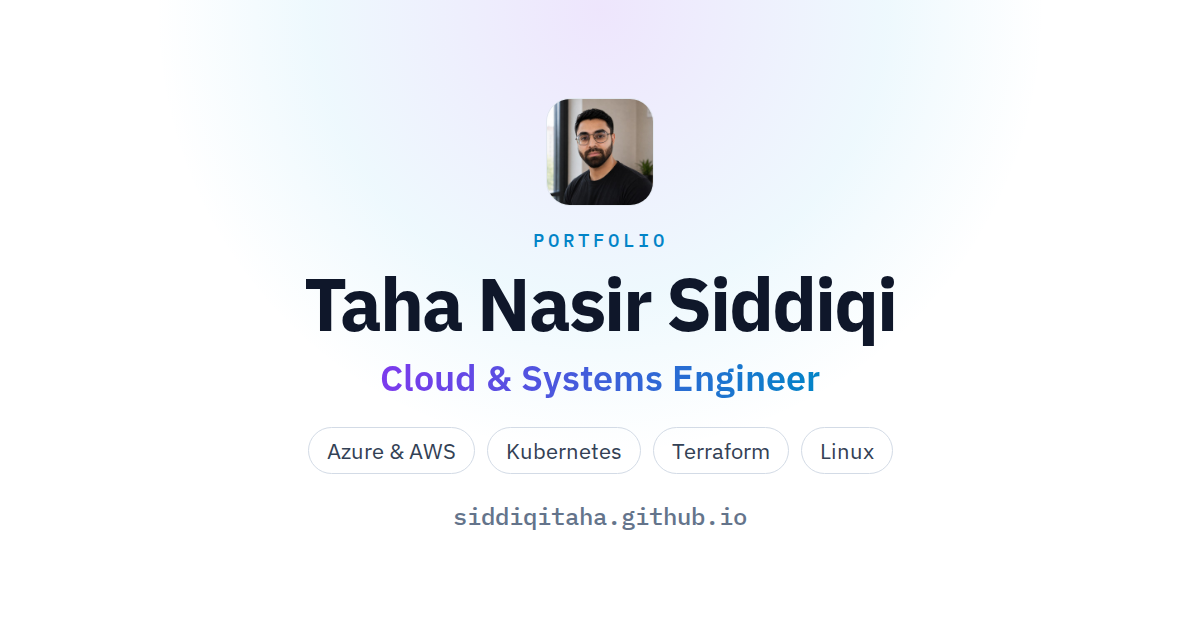
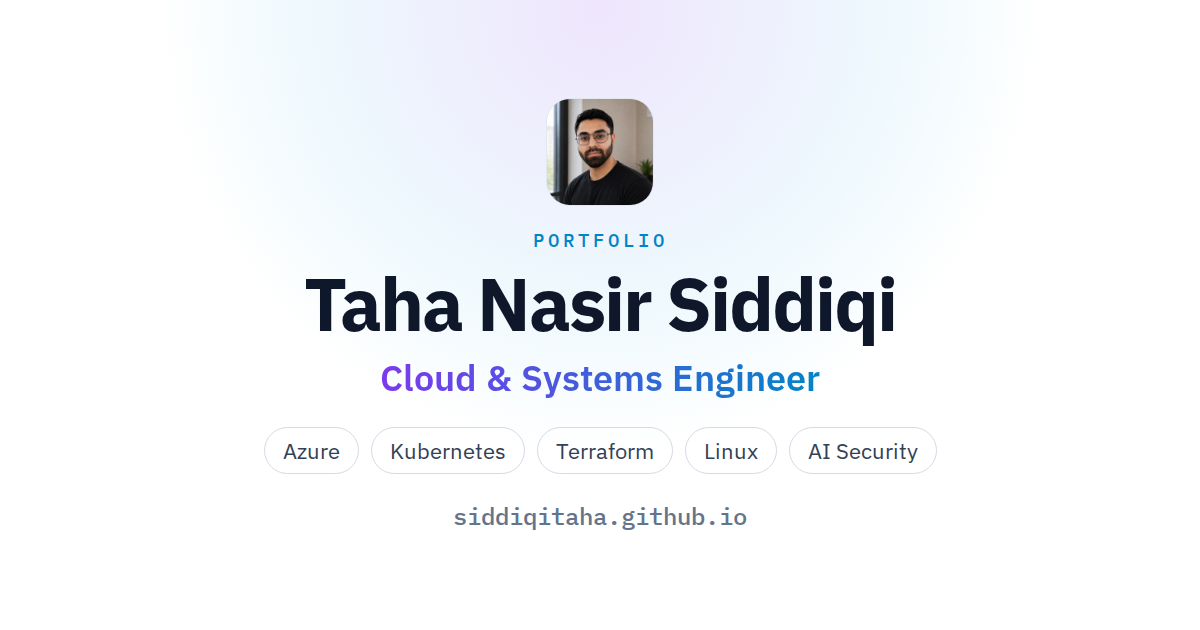
Add AI Security to share preview tags

Changed region(s): [[0.2158, 0.6937, 0.7708, 0.754]]

diff --git a/scripts/og-portfolio.html b/scripts/og-portfolio.html
@@ -19,7 +19,7 @@ body{font-family:'IBM Plex Sans',sans-serif;background:#fff;color:#0f172a;positi
   <div class="kicker">Portfolio</div>
   <div class="title">Taha Nasir Siddiqi</div>
   <div class="sub">Cloud &amp; Systems Engineer</div>
-  <div class="tags"><span class="tag">Azure &amp; AWS</span><span class="tag">Kubernetes</span><span class="tag">Terraform</span><span class="tag">Linux</span></div>
+  <div class="tags"><span class="tag">Azure</span><span class="tag">Kubernetes</span><span class="tag">Terraform</span><span class="tag">Linux</span><span class="tag">AI Security</span></div>
   <div class="url">siddiqitaha.github.io</div>
 </div>
 </body></html>
